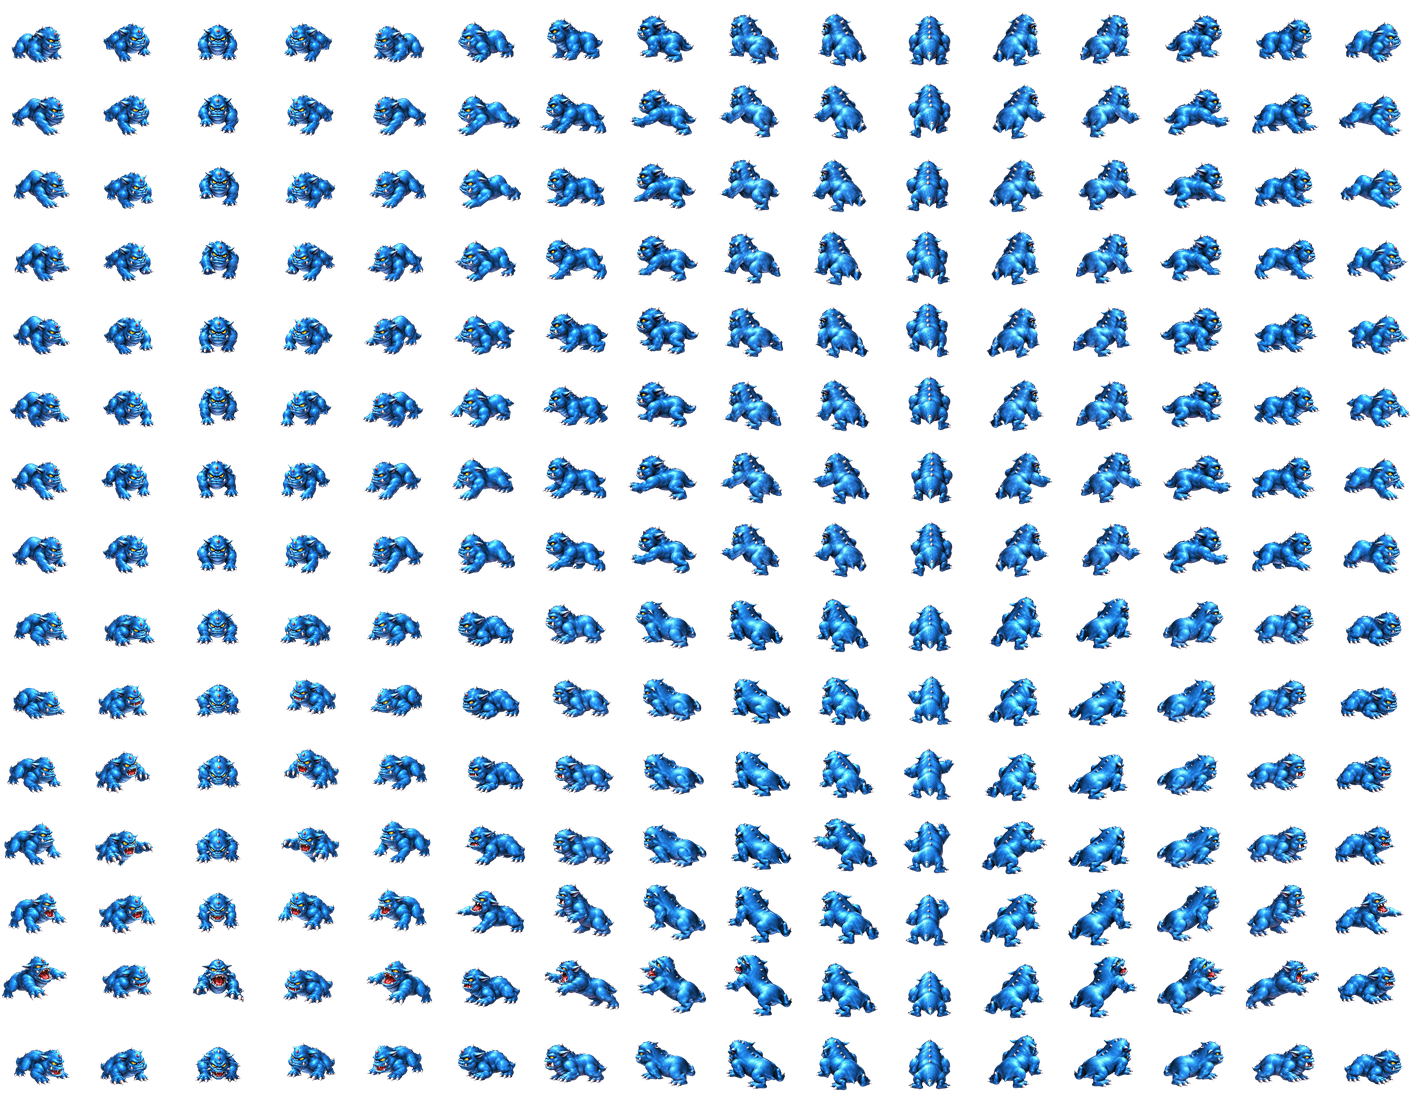
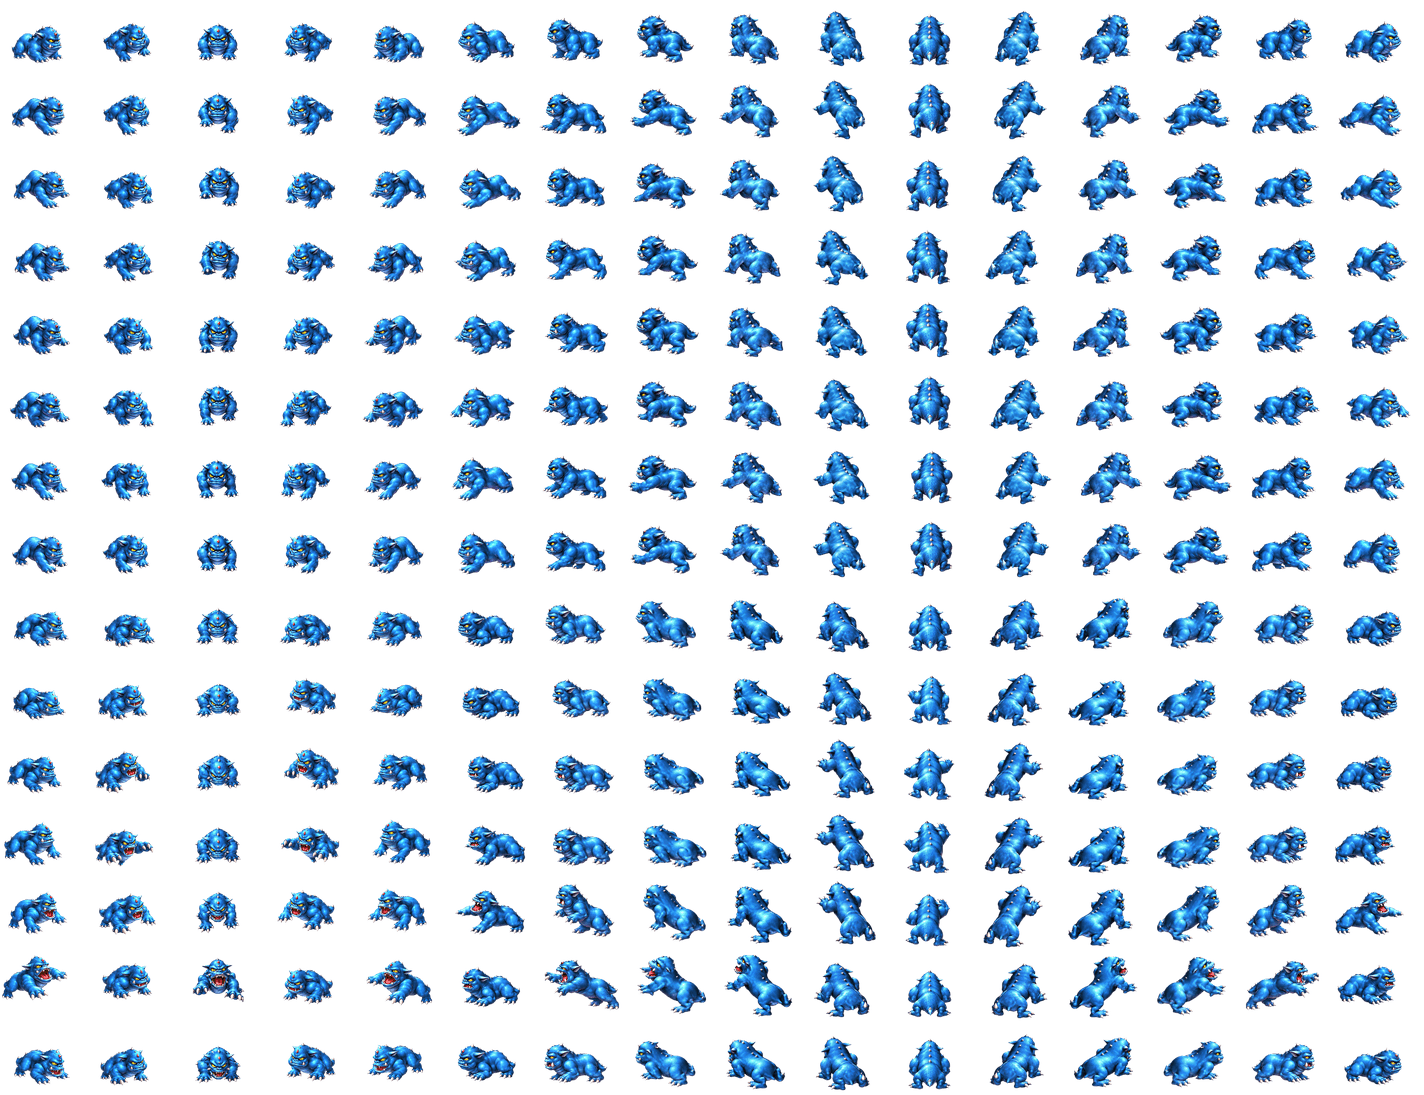
Level 2 champion sheets: Krallen look 1 built and switched on, Gorgo L2 back heading redone
- Krallen look 1: all painted headings done, sheet built, shrunk and turned on in REPAINTED_SHEETS.
- Gorgo L2 heading 9 (A9/B9) repainted as a true back view (was head side-on); sheet rebuilt and shrunk.
- Builder: a frame still wider than its cell after the nudge is shrunk just enough to fit, feet kept on the ground,
  instead of being cut (Krallen heading 7/13 pounce).
- Cut-out: loose pieces far from the body are dropped (a tail tip of the neighbouring painted frame).
- Browser wrappers use the champ-sheets-l2d session.

Claude-Session: https://claude.ai/code/session_016nGFFJARj2iBuiqXagav7x

diff --git a/web/src/game/attack/monsterSprites.ts b/web/src/game/attack/monsterSprites.ts
@@ -778,8 +778,7 @@ export const REPAINTED_SHEETS: Readonly<Record<string, string>> = {
   "monsters/ape_2.png": "monsters/ape_2-repaint@4x.png", // Gorgo level 2 repaint (all 16 headings, idle + walk + attack)
   "monsters/dragon_2.png": "monsters/dragon_2-repaint@4x.png", // Drull level 2 repaint (all 16 headings painted, idle + walk + attack)
   "monsters/fly_2.png": "monsters/fly_2-repaint@4x.png", // Fomor level 2 repaint (all 16 headings, idle + walk)
-  // Waiting for the rest of the painting (Codex usage limit), turn on with its sheet:
-  // "monsters/krallen_1_rev_65.png": "monsters/krallen_1_rev_65-repaint@4x.png", // Krallen look 1 repaint (all 16 headings, run + attack)
+  "monsters/krallen_1_rev_65.png": "monsters/krallen_1_rev_65-repaint@4x.png", // Krallen look 1 repaint (all 16 headings, run + attack)
 };
 
 /** Whether a sheet URL names a high-resolution sheet (`name@4x.png`). */

diff --git a/web/tools/gen-champ-l2-sprite.py b/web/tools/gen-champ-l2-sprite.py
@@ -172,6 +172,15 @@ for c in COLUMNS:
             left -= min(hi - cw, lo, MAX_NUDGE * UP)
         if top + ys.min() < 0:
             top += min(-(top + ys.min()), MAX_NUDGE * UP)
+        # still poking out sideways (a pounce wider than the cell): shrink it just enough, keeping the far side in place
+        lo, hi = left + xs.min(), left + xs.max() + 1
+        over = max(0, -lo) + max(0, hi - cw)
+        if over:
+            f = (hi - lo - over) / (hi - lo)
+            big = resize_premultiplied(big, (max(1, round(big.width * f)), max(1, round(big.height * f))))
+            ys, xs = np.where(np.asarray(big)[..., 3] > 40)
+            left = (min(hi, cw) - xs.max() - 1) if lo < 0 else (lo - xs.min())
+            top += round(bottom * kk * UP * (1 - f))      # feet stay on the ground
         layer = Image.new("RGBA", (cw, ch))
         layer.alpha_composite(big, (max(0, left), max(0, top)), (max(0, -left), max(0, -top)))
         lost = np.asarray(big)[..., 3] > 40

diff --git a/web/tools/champ-l2-kit/common.py b/web/tools/champ-l2-kit/common.py
@@ -88,8 +88,10 @@ def key_cell(rgb, key):
     keep = np.zeros_like(fg)
     if lab2.max():
         ids, cnt = np.unique(lab2[lab2 > 0], return_counts=True)
+        # loose pieces count only near the body: one far away is a tail tip or paw of the neighbouring painted frame
+        far = ndi.distance_transform_edt(lab2 != ids[cnt.argmax()]) > max(12, 0.06 * fg.shape[1])
         for i, c in zip(ids, cnt):
-            if c > cnt.max() * 0.02:
+            if c > cnt.max() * 0.02 and not far[lab2 == i].all():
                 keep |= lab2 == i
     keep = ndi.binary_fill_holes(keep)
     # ground trapped inside the body (between the legs, under the tail, inside an open mouth) is not edge-connected: cut out the
